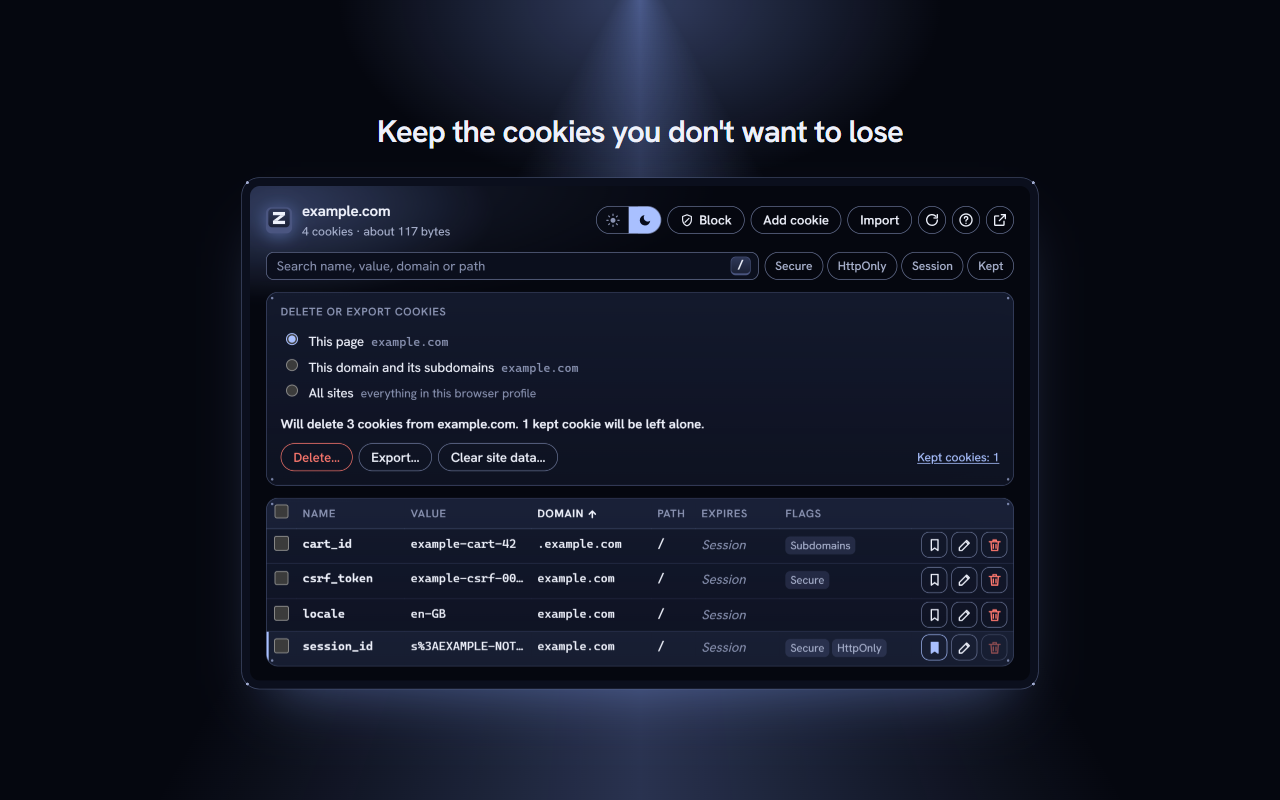
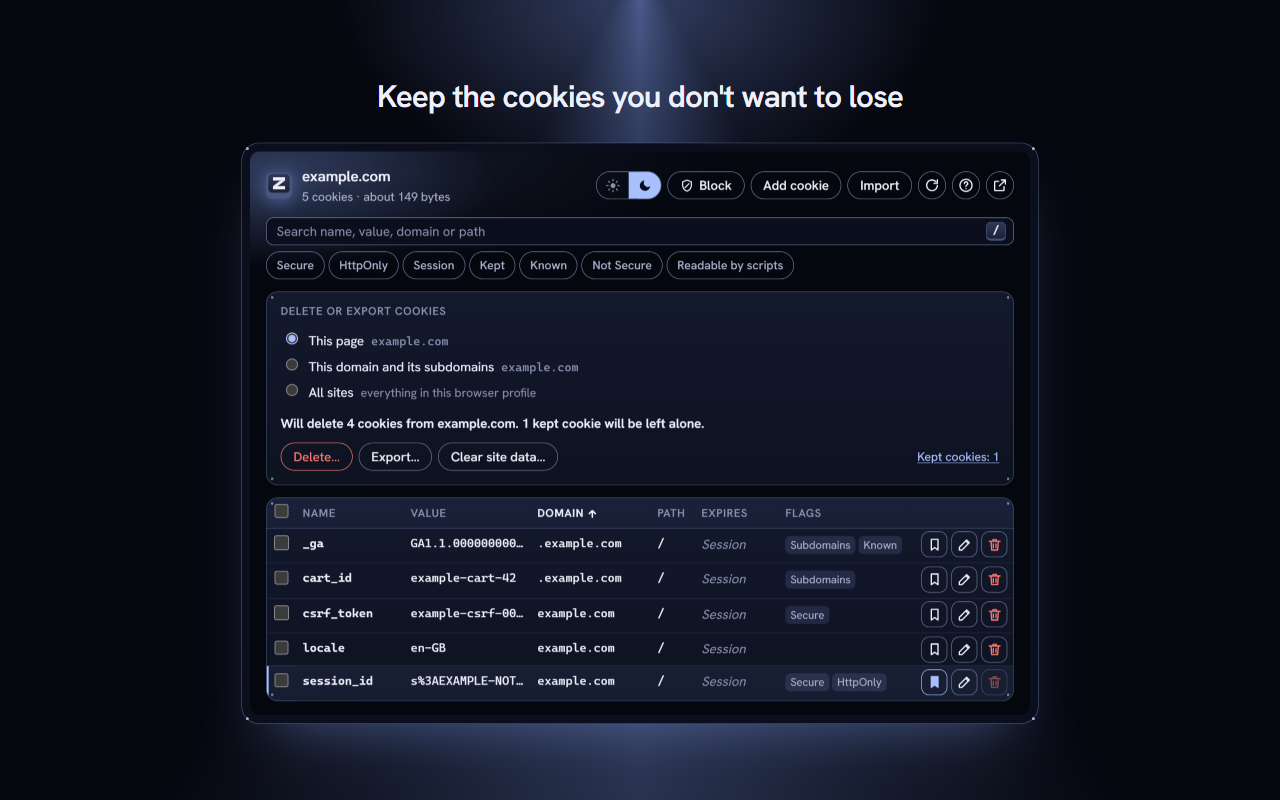
cookieZ 1.8.0: screenshots, with a known cookie in the overview

diff --git a/tests/make_store_screenshots.py b/tests/make_store_screenshots.py
@@ -67,6 +67,8 @@ COOKIES = [
     {"url": SITE, "name": "csrf_token", "value": "example-csrf-000000", "secure": True},
     {"url": SITE, "name": "locale", "value": "en-GB"},
     {"url": SITE, "name": "cart_id", "value": "example-cart-42", "domain": ".example.com"},
+    # A well-known name, so the "Known" badge shows.
+    {"url": SITE, "name": "_ga", "value": "GA1.1.000000000.0000000000", "domain": ".example.com"},
     # A few other sites, so the "All sites" scope has something to show.
     {"url": "https://example.org/", "name": "prefs", "value": "example-only"},
     {"url": "https://example.net/", "name": "visits", "value": "3"},
